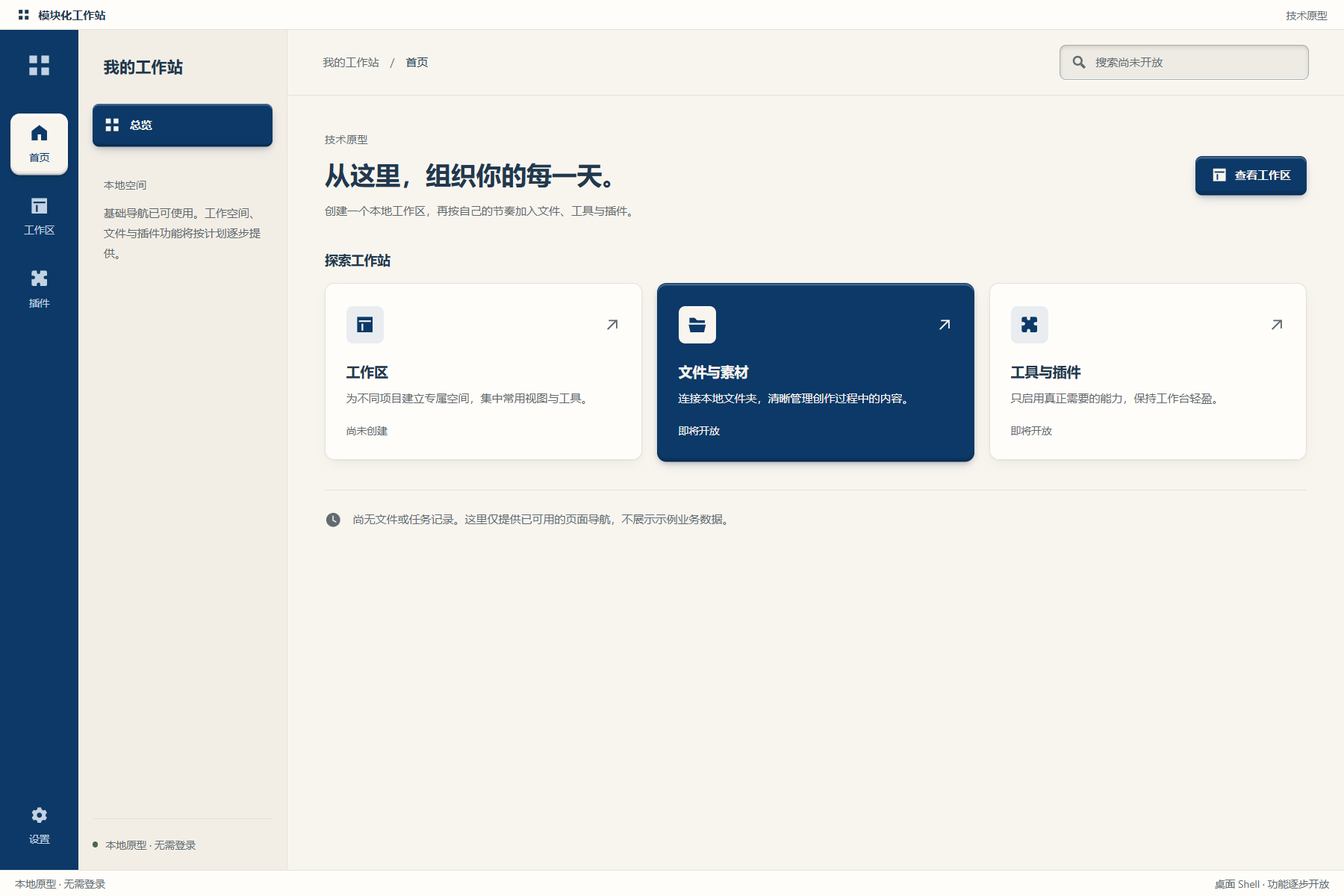
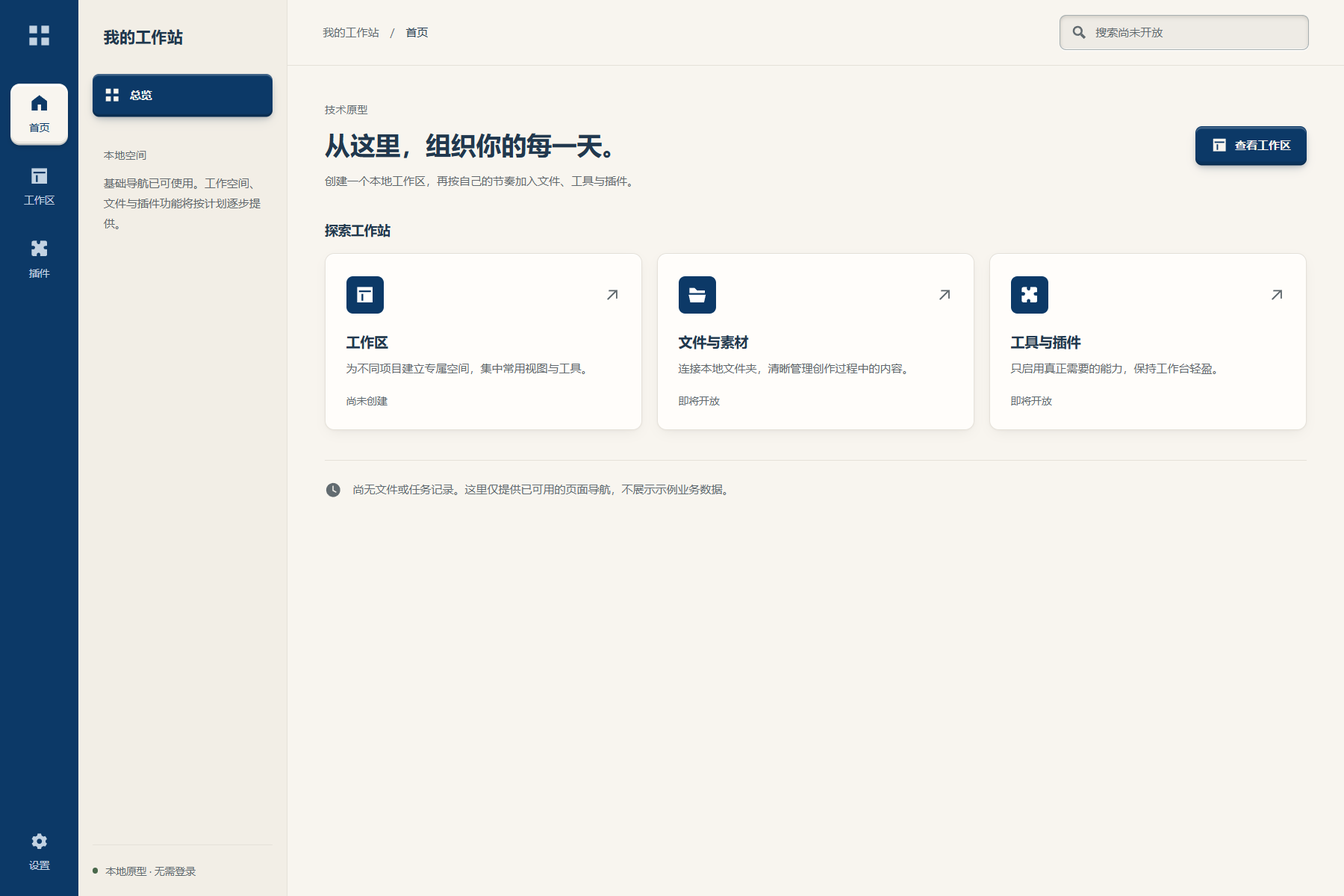
fix(shell): remove redundant chrome and normalize home cards

diff --git a/src/styles.css b/src/styles.css
@@ -4,10 +4,7 @@ body { margin: 0; background: var(--color-bg); }
 button, input { font: inherit; }
 button { cursor: pointer; }
 .icon { width: 22px; height: 22px; flex: none; }
-.shell { display: grid; grid-template: 32px minmax(0, 1fr) 28px / var(--rail-width) minmax(0, 1fr); height: 100vh; min-height: 320px; color: var(--color-text); background: var(--color-bg); font-size: var(--type-body); }
-.app-title { grid-column: 1 / -1; display: flex; align-items: center; gap: 9px; padding: 0 18px; background: var(--color-top); border-bottom: 1px solid var(--color-divider); font-size: var(--type-small); }
-.app-title .icon { width: 14px; height: 14px; }
-.app-title > span { margin-left: auto; color: var(--color-subtle); font-size: var(--type-caption); }
+.shell { display: grid; grid-template: minmax(0, 1fr) / var(--rail-width) minmax(0, 1fr); height: 100vh; min-height: 320px; color: var(--color-text); background: var(--color-bg); font-size: var(--type-body); }
 .rail { display: flex; flex-direction: column; align-items: center; gap: 14px; padding: 24px 10px 16px; background: var(--color-rail); overflow-y: auto; }
 .brand-mark { color: var(--color-rail-text); padding-bottom: 20px; }
 .brand-mark .icon { width: 28px; height: 28px; }
@@ -40,7 +37,7 @@ h1 { font-size: var(--type-title); line-height: 1.35; font-weight: 650; margin: 
 .control .icon { width: 18px; height: 18px; }
 .control:not(:disabled):hover { background: var(--color-surface-hover); }
 .control.primary { flex: none; background: var(--color-accent); color: var(--color-on-accent); border-color: transparent; box-shadow: var(--shadow-raised); font-weight: 600; }
-.control.primary:hover, .module-card.emphasis:hover { background: var(--color-accent); filter: brightness(1.05); }
+.control.primary:hover, .module-card[data-selected="true"]:hover { background: var(--color-accent); filter: brightness(1.05); }
 .control:disabled { background: var(--color-disabled); color: var(--color-on-disabled); box-shadow: none; cursor: not-allowed; }
 .section-title { font-size: var(--type-body); margin: 32px 0 16px; }
 .module-grid { display: grid; grid-template-columns: repeat(3, minmax(0, 1fr)); gap: 16px; }
@@ -48,13 +45,13 @@ h1 { font-size: var(--type-title); line-height: 1.35; font-weight: 650; margin: 
 .module-card:hover { background: var(--color-surface-hover); }
 .card-head { display: flex; justify-content: space-between; align-items: center; margin-bottom: 20px; }
 .card-head > .icon { width: 17px; height: 17px; color: var(--color-subtle); }
-.module-icon, .state-emblem { width: 40px; height: 40px; display: grid; place-items: center; border-radius: var(--radius-md); color: var(--color-icon); background: var(--color-icon-bg); }
+.state-emblem { width: 40px; height: 40px; display: grid; place-items: center; border-radius: var(--radius-md); color: var(--color-icon); background: var(--color-icon-bg); }
+.module-icon { width: 40px; height: 40px; display: grid; place-items: center; border-radius: var(--radius-md); background: var(--color-accent); color: var(--color-on-icon); }
 .module-card h3 { margin: 0 0 8px; font-size: 15px; }
 .module-card p { margin: 0; font-size: var(--type-small); color: var(--color-muted); line-height: 1.8; }
 .module-status { display: block; margin-top: 16px; font-size: var(--type-caption); color: var(--color-subtle); }
-.module-card.emphasis { background: var(--color-accent); color: var(--color-on-accent); border-color: transparent; box-shadow: var(--shadow-raised); }
-.module-card.emphasis p, .module-card.emphasis .module-status, .module-card.emphasis .card-head > .icon { color: inherit; }
-.module-card.emphasis .module-icon { background: var(--color-on-accent); color: var(--color-accent); }
+.module-card[data-selected="true"] { background: var(--color-accent); color: var(--color-on-accent); border-color: transparent; box-shadow: var(--shadow-raised); }
+.module-card[data-selected="true"] p, .module-card[data-selected="true"] .module-status, .module-card[data-selected="true"] .card-head > .icon { color: inherit; }
 .home-note { display: flex; align-items: flex-start; gap: 12px; margin-top: 32px; padding: 20px 0; border-top: 1px solid var(--color-divider); color: var(--color-subtle); }
 .home-note p { margin: 0; font-size: var(--type-small); line-height: 1.8; }
 .home-note .icon { margin-top: 2px; width: 18px; height: 18px; }
@@ -69,7 +66,6 @@ h1 { font-size: var(--type-title); line-height: 1.35; font-weight: 650; margin: 
 .theme-information { margin-top: 24px; padding: 20px 0 0; border-top: 1px solid var(--color-divider); font-size: var(--type-small); }
 .theme-information strong { display: block; margin-top: 8px; }
 .theme-information p { line-height: 1.8; color: var(--color-muted); }
-.statusbar { grid-column: 1 / -1; display: flex; align-items: center; justify-content: space-between; gap: 12px; padding: 0 16px; background: var(--color-top); border-top: 1px solid var(--color-divider); color: var(--color-subtle); font-size: var(--type-caption); }
 button:focus-visible, .skip-link:focus-visible { outline: 2px solid var(--color-focus); outline-offset: 3px; }
 .rail button:focus-visible { outline-color: var(--color-rail-text); }
 .control:not(:disabled):active, .module-card:active, .nav-item:active { transform: translateY(1px); box-shadow: var(--shadow-pressed); }
@@ -97,12 +93,11 @@ button:focus-visible, .skip-link:focus-visible { outline: 2px solid var(--color-
  .search-surface { width: 100%; }
  .module-grid { grid-template-columns: 1fr; }
  .module-card, .state-panel { padding: 22px; }
- .statusbar > span:last-child { display: none; }
 }
 @media (prefers-reduced-motion: reduce) {
  .control:not(:disabled):active, .module-card:active, .nav-item:active { transform: none; }
 }
 @media (forced-colors: active) {
- .nav-item.active, .context-current, .module-card.emphasis, .control.primary { border: 2px solid Highlight; }
+ .nav-item.active, .context-current, .module-card[data-selected="true"], .control.primary { border: 2px solid Highlight; }
  .control:disabled { color: GrayText; border-color: GrayText; }
 }

diff --git a/src/App.tsx b/src/App.tsx
@@ -12,7 +12,6 @@ export default function App() {
  return (
   <div className="shell">
    <a className="skip-link" href="#main-content">{messages.skip}</a>
-   <header className="app-title"><Icon name="grid" /><strong>{messages.appName}</strong><span>{messages.prototype}</span></header>
    <nav className="rail navigation" aria-label={messages.navigation}>
     <div className="brand-mark"><Icon name="grid" /></div>
     {pageIds.map(id=><button key={id} type="button" aria-label={messages.pages[id].label} className={`nav-item${page===id?' active':''}${id==='settings'?' bottom':''}`} aria-current={page===id?'page':undefined} onClick={()=>setPage(id)}><Icon name={id}/><span>{messages.pages[id].label}</span></button>)}
@@ -28,11 +27,10 @@ export default function App() {
      <header className="topbar"><span className="breadcrumb">{messages.myStation}<span aria-hidden="true">/</span><strong>{current.label}</strong></span><div className="search-surface" aria-label={messages.searchUnavailable}><Icon name="search"/><span>{messages.searchUnavailable}</span></div></header>
      <section className="content" aria-labelledby="page-title">
       <div className="content-intro"><div><span className="eyebrow">{messages.prototype}</span><h1 id="page-title">{current.title}</h1><p>{current.description}</p></div>{page==='home'&&<button className="control primary" type="button" onClick={()=>setPage('workspace')}><Icon name="workspace"/>{messages.viewWorkspace}</button>}</div>
-      {page==='home'?<><h2 className="section-title">{messages.explore}</h2><div className="module-grid">{messages.modules.map((module,index)=><button type="button" className={`module-card${index===1?' emphasis':''}`} key={module.title} onClick={()=>setPage(moduleTargets[index])}><div className="card-head"><span className="module-icon"><Icon name={moduleIcons[index]}/></span><Icon name="arrow"/></div><h3>{module.title}</h3><p>{module.description}</p><span className="module-status">{module.status}</span></button>)}</div><div className="home-note"><Icon name="clock"/><p>{messages.homeNote}</p></div></>:<div className="empty-panel state-panel" data-tone="neutral"><div className="state-emblem"><Icon name={page}/></div><h2>{messages.emptyLabel}</h2><p>{current.description}</p>{page==='workspace'&&<><button className="control" type="button" disabled>{messages.createWorkspace}</button><span className="availability-note">{messages.workspaceUnavailable}</span></>}{page==='plugins'&&<><button className="control" type="button" disabled>{messages.installPlugin}</button><span className="availability-note">{messages.pluginUnavailable}</span></>}{page==='settings'&&<div className="theme-information"><span>{messages.themeLabel}</span><strong>{messages.systemTheme}</strong><p>{messages.themeNote}</p></div>}</div>}
+      {page==='home'?<><h2 className="section-title">{messages.explore}</h2><div className="module-grid">{messages.modules.map((module,index)=><button type="button" className="module-card" key={module.title} onClick={()=>setPage(moduleTargets[index])}><div className="card-head"><span className="module-icon"><Icon name={moduleIcons[index]}/></span><Icon name="arrow"/></div><h3>{module.title}</h3><p>{module.description}</p><span className="module-status">{module.status}</span></button>)}</div><div className="home-note"><Icon name="clock"/><p>{messages.homeNote}</p></div></>:<div className="empty-panel state-panel" data-tone="neutral"><div className="state-emblem"><Icon name={page}/></div><h2>{messages.emptyLabel}</h2><p>{current.description}</p>{page==='workspace'&&<><button className="control" type="button" disabled>{messages.createWorkspace}</button><span className="availability-note">{messages.workspaceUnavailable}</span></>}{page==='plugins'&&<><button className="control" type="button" disabled>{messages.installPlugin}</button><span className="availability-note">{messages.pluginUnavailable}</span></>}{page==='settings'&&<div className="theme-information"><span>{messages.themeLabel}</span><strong>{messages.systemTheme}</strong><p>{messages.themeNote}</p></div>}</div>}
      </section>
     </main>
    </div>
-   <footer className="statusbar"><span>{messages.status}</span><span>{messages.previewOnly}</span></footer>
   </div>
  );
 }

diff --git a/src/tokens.css b/src/tokens.css
@@ -16,6 +16,7 @@
   --color-subtle: #a4aebc;
   --color-accent: #225487;
   --color-on-accent: #f8f5ef;
+  --color-on-icon: #ffffff;
   --color-accent-foot: #123758;
   --color-icon-bg: #323e4d;
   --color-icon: #b7d3f4;

diff --git a/docs/SHELL_THEME_IMPLEMENTATION.md b/docs/SHELL_THEME_IMPLEMENTATION.md
@@ -13,7 +13,7 @@
 - [浅色原样稿](design/workstation-ivory-home-tactile.html)：背景 `#F8F5EF` / 深蓝 `#0C3967`。
 - [深色原样稿](design/workstation-dark-charcoal-deeper.html)：中性炭灰 `#1C1D20` / 统一深蓝 `#225487`。`#2866A5` 已被否定，不可恢复。
 - 两份 HTML/PNG 均保留原样作为已确认方向证据，不将其演示文件、任务、账号或数量迁入应用。
-- 共用 Token 和组件样式覆盖首页、工作区/文件素材入口、插件与设置的导航、上下文侧栏、顶栏、卡片、空态、禁用操作和状态栏。
+- 共用 Token 和组件样式覆盖首页、工作区/文件素材入口、插件与设置的导航、上下文侧栏、顶栏、卡片、空态、禁用操作；全宽状态栏随后按截图反馈移除。
 - 图标采用自绘面型 SVG 与镂空结构；搜索表面轻微内凹，选中入口/主按钮/强调卡片轻微凸起，普通面板更淡。边框继续保持轻且不影响文字清晰度。
 
 当前只有四页 Shell 与导航。文件素材入口指向工作区的真实空态，没有新增文件浏览器、标签页、安装流程、权限系统或任务中心。设置只展示“跟随系统”的真实情况；不引入偏好保存。首页“查看工作区”和模块卡片能切换页面，新建/安装禁用并说明原因。
@@ -31,6 +31,14 @@
 
 [深色 200% 窄窗口](design/previews/runtime/dark-home-400.png) / [浅色 200% 窄窗口](design/previews/runtime/light-home-400.png)。
 
+## 最新截图修订：精简外框与常规卡片
+
+- 删除默认 File/Edit/View/Window 菜单，移除重复品牌/技术原型横栏和全宽底部状态栏；保留原生系统标题栏，不新增无边框窗口风险。
+- 首页三张卡片不预选，常规浅色统一白卡、深色统一中性深色卡；左上图标块统一为对应主题深蓝底与纯白图形。
+- 点击仍导航，未来深蓝选择卡面仅保留样式，不声称当前已有卡片选择功能。
+- 新增 `tests/home-feedback.test.cjs`，旧版真实失败（菜单仍存在），修订后通过；检查菜单移除且 Alt 不唤回、冗余栏不存在、三卡未选中与图标配色、未来选中样式探针、跳转回首页后无残留选中。
+- `npm test` 三项测试均通过，96 个运行窗口案例和全部深浅截图重新执行/导出。新便携包的菜单/卡片及原有构建身份、隔离、四页导航与关闭退出均已核对。
+
 ## 已执行验证
 
 1. 先写主题回归断言，在旧运行版本上真实失败（旧背景 `#171E20` 与确认值不符），再实施修复。
@@ -45,9 +53,9 @@
 
 ## 交付与后续
 
-本机候选：工作目录上两级 `outputs/theme-candidate-20261020/ModularWorkstation-win32-x64/ModularWorkstation.exe`。整个目录需保留；尚非正式安装包，没有发布到 GitHub Release，也未完成签名/升级测试。
+本机候选：工作目录上两级 `outputs/theme-candidate-20261020-home-refinement/ModularWorkstation-win32-x64/ModularWorkstation.exe`。整个目录需保留；尚非正式安装包，没有发布到 GitHub Release，也未完成签名/升级测试。
 
-应用代码修改：`src/tokens.css`、`src/styles.css`、`src/App.tsx`、`src/Icons.tsx`、`src/i18n.ts`，以及主进程启动底色。依赖与锁文件没有变动，没有扩大渲染权限或接入插件。
+应用代码修改：`src/tokens.css`、`src/styles.css`、`src/App.tsx`、`src/Icons.tsx`、`src/i18n.ts`，以及主进程启动底色与默认菜单移除。依赖与锁文件没有变动，没有扩大渲染权限或接入插件。
 
 待完成：独立审查、最终产品体验验收；系统高对比/读屏、多显示器 DPI 与正式发布检查。旧 D2 静态稿保留历史证据，并未全部重新生成；后续规范以最新偏好和实际 Token 为准。#4/#5 与 Electron/Tauri 对照仍待推进，本轮不代替它们。
 

diff --git a/docs/DESIGN_PREFERENCES.md b/docs/DESIGN_PREFERENCES.md
@@ -9,8 +9,10 @@
 | 整体方向 | LobeHub 视觉氛围、Figma 专业工作区结构、B「轻量模块」首页；首页保持轻量，不照搬参考品牌资产 |
 | 浅色配色（最新） | 明亮米白 `#F8F5EF` + 深蓝 `#0C3967`；取代此前较黄的 `#EAD0B0`，也更新此前浅色稿的钴蓝方向。深色现已另行确认中性炭灰与统一深蓝，见下一行 |
 | 深色配色（已确认） | 中性炭灰背景 `#1C1D20`，首页选中入口、总览、主按钮与强调模块卡片统一 `#225487`。此前 `#2866A5` 被反馈太亮，不再采用；不可为不同选中区域各设一种蓝 |
-| 轻微实体层次（最新） | 搜索框轻微内凹；首页选中入口、总览、新建工作空间主按钮、深蓝文件与素材卡片凸起更明显；其余白色卡片较轻。顶部亮边、底部薄厚度、接触阴影和柔和投影共同表达层次，避免粗重外框 |
+| 轻微实体层次（最新） | 搜索框轻微内凹；首页选中入口、总览、新建工作空间主按钮、深蓝选中卡片（仅真实选中时）凸起更明显；其余白色卡片较轻。顶部亮边、底部薄厚度、接触阴影和柔和投影共同表达层次，避免粗重外框 |
 | 选中状态 | 导航、资源行、标签、视图切换、筛选使用完整实色填充与清楚的反差前景（深蓝选中配米白；深蓝侧栏上的米白选中配深蓝），扎实清楚；不用淡底加细框代替选中。素材缩略图保留原色 |
+| 首页三张模块卡（截图修订） | 常规状态统一浅色白卡；深色主题对应统一中性深色卡面，不默认突出文件卡。深蓝整卡只预留给未来真实选择状态；当前点击仍跳转，不伪造选择功能。三张卡左上角图标块均使用对应主题的深蓝底与纯白图形 |
+| 冗余窗口区域（截图修订） | 去掉 Electron 默认 File/Edit/View/Window 菜单、重复的品牌/技术原型横栏、全宽底部状态栏。保留原生标题栏的拖动、最小化、最大化和关闭能力；不擅自新增自绘窗口控件 |
 | 图标 | 面型为主、线面结合，轮廓统一、视觉稳重；可用镂空和局部层次，箭头、加号、关闭等仍可用线条。避免全套空心线型图标 |
 | 警告色 | 独立实色红块、白色图标，当前 `#C93B3B`。`#DC2626` 被反馈过亮、饱和度过高；`#A84B50` 被反馈偏灰显脏。保留纯红色相，轻度降低饱和度；警告与错误仍须用图标、文字和语义区分 |
 | 普通边框 | 搜索框、次要按钮、分段控件外框和未选中的审阅标签：1px，边框色以原边界色的 50% 不透明度绘制，降低抢眼程度。不降低整个控件或文字的不透明度 |

diff --git a/PROJECT_STATE.md b/PROJECT_STATE.md
@@ -9,6 +9,8 @@
 
 最新实施（产品负责人通过侧边讨论明确授权）：[深浅主题统一映射到四页 Shell](docs/SHELL_THEME_IMPLEMENTATION.md)，[实施 PR #20](https://github.com/2539426035852ningmao-cmyk/modular-workstation/pull/20)，分支 `feat/s1-approved-theme-shell`，承接 PR #19 的已确认设计。深色方向已确认 `#1C1D20` / `#225487`，浅色为 `#F8F5EF` / `#0C3967`；真实导航、只读主题说明与空态已换装，文件/插件业务仍未实现。中英文、四页、双主题、六种尺寸与缩放共 96 个实际窗口案例、Windows 便携包启动与退出核验已通过，待审查和最终产品验收；旧稿进展段落按历史时点理解。
 
+最新截图修正已追加至 PR #20：移除默认菜单、重复品牌横栏与全宽底部状态栏；三张首页模块卡常规状态统一，不默认选中文件卡；图标块统一主题深蓝底/纯白图形。卡片仍仅导航，深蓝选择卡面只预留样式。三项测试、96 个窗口案例和新便携包启动核验通过，用户视觉偏好记录已更新。
+
 ## 唯一当前主任务
 **[桌面 Shell 技术原型（Issue #10）](https://github.com/2539426035852ningmao-cmyk/modular-workstation/issues/10)**。项目所有者明确要求先实现可启动窗口与导航；这是当前唯一实施任务，不表示 S0/S1 已验收。
 
@@ -63,7 +65,7 @@
 - 用户具备 Google AI Pro 订阅，但 Gemini CLI 本机 OAuth 授权未完成；订阅与 API 用量不能等同，联合审查尚未验证。详见 [#3 记录](https://github.com/2539426035852ningmao-cmyk/modular-workstation/issues/3#issuecomment-6264106826)。
 
 ## 唯一下一步
-当前设计下一步为 **汇总深浅主稿及基础状态稿，依据产品负责人的视觉反馈收敛设计，再确定第一项获批的应用映射范围**。完整 Shell 恢复/关闭等状态流尚待后续分批设计。#10 的窗口、导航、便携构建技术验证与 PR #11 已完成，产品验收仍待用户；正式任务切换须记录。#4 的 Gemini 独立审查、#5 的 CI 和 Electron/Tauri 对照继续保留，S0 尚未完成。
+当前唯一下一步为 **审查并体验验收 PR #20 的四页 Shell 视觉映射，继续在该 PR 收敛实际截图反馈**；不重开已经确认的配色、卡片和图标偏好。完整 Shell 恢复/关闭等状态流尚待后续分批设计。#10 的窗口、导航、便携构建技术验证与 PR #11 已完成，产品验收仍待用户；正式任务切换须记录。#4 的 Gemini 独立审查、#5 的 CI 和 Electron/Tauri 对照继续保留，S0 尚未完成。
 
 ## 角色与权责
 - 用户：最终审美、重大方向、安全权限及发布决策。

diff --git a/docs/DESIGN_FOUNDATIONS.md b/docs/DESIGN_FOUNDATIONS.md
@@ -21,10 +21,16 @@
 
 装饰边框为 1px，边界色以 50% 不透明度绘制；文字和控件整体保持不透明。分隔线更淡，焦点独立清楚。警告与错误语义名称独立，配文字、图标区分，不仅靠颜色。
 
+## 首页模块卡片与精简窗口
+
+最新截图反馈优先于早期样稿中的默认强调卡：三张模块卡常规状态统一为白色（深色主题对应统一中性深色表面），不默认选中“文件与素材”。左上角圆角图标块统一为主题深蓝底、纯白图形（`--color-on-icon`）。点击仍切换页面，未来真实选择的深蓝卡面仅预留为 `[data-selected="true"]` 样式，不在当前 DOM 伪造选中。
+
+Electron 默认菜单已移除，Alt 不会唤回；原生标题栏及窗口控制保留。重复应用品牌横栏和全宽底部状态栏已删除，页面内容填满可用空间。
+
 ## 表面和状态
 
 - `--shadow-recessed`：搜索占位表面顶部内阴影、底部细亮边；当前搜索尚未开放，不伪装为可用输入框。
-- `--shadow-raised`：主按钮、上下文选中、强调模块卡片和深色 Rail 选中共用受光、薄厚度、接触阴影与柔和投影。
+- `--shadow-raised`：主按钮、上下文选中、未来真实选中的模块卡片和深色 Rail 选中共用受光、薄厚度、接触阴影与柔和投影。
 - `--shadow-panel`：其余面板更轻。浅色 Rail 米白选中使用适配深蓝底的轻阴影。
 - Hover 通过表面变化或轻微亮度反馈；pressed 使用内阴影与 1px 下移；减少动态效果时不位移。没有常驻动画。
 - Focus-visible 使用 2px 外圈，Rail 使用适合底色的独立前景；系统缩放可能产生像素取整。禁用控件使用实体中性底与明确文字，不靠整体透明度变淡。
@@ -32,7 +38,7 @@
 
 ## 结构和密度
 
-保留四个真实导航入口、B 轻量模块首页。84px Rail、224px 上下文侧栏、70px 内容顶栏、28px 状态栏；使用原生系统窗口框，不绘制虚假的系统控制按钮。
+保留四个真实导航入口、B 轻量模块首页。84px Rail、224px 上下文侧栏、70px 内容顶栏；移除默认菜单、重复品牌栏和全宽底部状态栏。使用原生系统窗口框，不绘制虚假的系统控制按钮。
 
 视口不高于 1150px 时隐藏上下文侧栏，主要导航仍保留图标、可见标签及可访问名称；800px 以下模块变两列，600px 以下单列与 68px Rail，中文/英文在 200% 缩放时仍能使用。上下文侧栏目前只是只读页面信息，不宣称用户可折叠、调整或保存布局。主体可滚动，主要导航有自己的窄窗口滚动空间。
 

diff --git a/docs/DESIGN_PROPOSAL_D1.md b/docs/DESIGN_PROPOSAL_D1.md
@@ -8,6 +8,8 @@
 
 最新浅色方向补充（优先于本文旧浅色颜色与无阴影候选）：产品负责人已认可明亮米白 `#F8F5EF` + 深蓝 `#0C3967`，搜索轻微内凹、重点入口与卡片凸起、其余卡片层次较轻。见 [认可样稿归档](DESIGN_REVIEW_IVORY_TACTILE.md) 与 [偏好记录](DESIGN_PREFERENCES.md)。下方既有 D1 / D2 Token 表保留历史候选，尚未迁移，不应据此恢复浅色钴蓝或完全平面的旧方向；深色随后已确认中性炭灰 `#1C1D20` 与统一深蓝 `#225487`；四页 Shell 运行时映射见 [实施记录](SHELL_THEME_IMPLEMENTATION.md)。本文旧 D2 数值继续作为历史设计记录，不覆盖最新运行时 Token。
 
+最新运行截图修正：移除默认菜单、重复品牌横栏与全宽底栏；首页三卡常规状态一致、无默认蓝色卡，图标块为主题深蓝底与纯白图形。选择卡面只为未来真实选择预留，当前点击仍导航。该反馈优先于历史稿中的默认文件强调卡；详见 [偏好记录](DESIGN_PREFERENCES.md)。
+
 ## 1. 依据、范围与项目位置
 
 产品所有者授权本轮完成 D1。方向为 **LobeHub 视觉美学 + Figma 专业工作台布局 + 保留 B「轻量模块」首页**。本提案定义设计稿和后续小范围实现的约束；所有新增尺寸、色值和组件规格仍为候选。

diff --git a/docs/PROTOTYPE.md b/docs/PROTOTYPE.md
@@ -39,7 +39,7 @@ npm run package:win
 
 当前深浅主题与四页实际映射、截图和测试见 [实施记录](SHELL_THEME_IMPLEMENTATION.md)。主题继续跟随系统；设置只读显示当前模式，手动主题和偏好保存尚未实现。首页模块卡片和“查看工作区”仅切换已有页面，创建/安装等操作禁用并说明原因。
 
-本机新候选位于项目工作目录上两级的 `outputs/theme-candidate-20261020/ModularWorkstation-win32-x64/`。保留整个文件夹，双击 `ModularWorkstation.exe`；切换 Windows 深浅主题，检查四页、Tab/Enter、最小窗口和关闭退出。不要把单个 EXE 移出目录。旧便携包未覆盖，本候选未经最终产品验收。
+本机新候选位于项目工作目录上两级的 `outputs/theme-candidate-20261020-home-refinement/ModularWorkstation-win32-x64/`。保留整个文件夹，双击 `ModularWorkstation.exe`；切换 Windows 深浅主题，检查四页、Tab/Enter、最小窗口和关闭退出。不要把单个 EXE 移出目录。旧便携包未覆盖，本候选未经最终产品验收。
 
 重新打包可指定新的输出目录，避免覆盖旧包：
 
